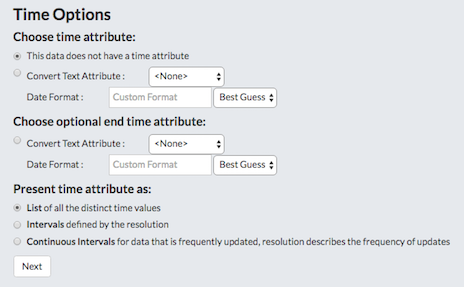
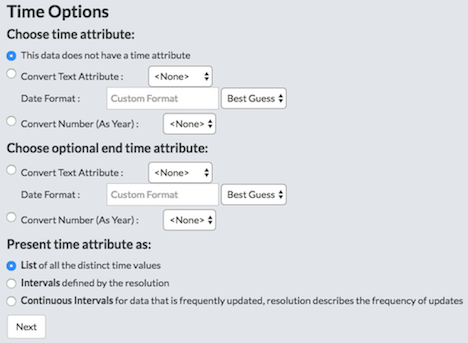
This is the first half of the working with layers section. I’ve reorganized sections and updated images throughout.
Continued changes to the working with layers section. Added new images. Removed old images. This is the version management and information page

Pending any changes due to proof reading, this will be ready to merge.

Working with Layers. Finished, reviewed several times, and ready for merging.

Changed region(s): [[0.0, 0.0, 0.9957, 0.9756], [0.0302, 0.5575, 0.181, 0.5854]]

diff --git a/source/layers/index.rst b/source/layers/index.rst
@@ -1,7 +1,9 @@
 Working with Layers
 ===================
 
-Exchange allows you to upload layers. The following are the supported Vector formats:
+Exchange allows you to upload layers for better visualization of your data, and to create a more detailed map.
+
+Exchange supports the following Vector formats:
 
 * ESRI Shapefile
 * CSV (Comma Separated Value)
@@ -16,230 +18,269 @@ The following are the supported Raster formats:
 * NITF (National Imagery Transmission Format)
 * CIB (Controlled Image Base)
 
-  * 1 Meter
-  * 5 Meter
-  * 10 Meter
+    * 1 Meter
+    * 5 Meter
+    * 10 Meter
+
 * CADRG (Compressed Arc Digitized Raster Graphic)
 
-  * GNC (Global Navigation Chart)
-  * JNC (Jet Navigation Chart)
-  * ONC (Operational Navigation Chart)
-  * TPC (Tactical Pilotage Chart)
-  * JOG (Joint Operations Graphic)
-  * TLM100 (Topographic Line Map 100K)
-  * TLM50 (Topographic Line Map 50K)
+    * GNC (Global Navigation Chart)
+    * JNC (Jet Navigation Chart)
+    * ONC (Operational Navigation Chart)
+    * TPC (Tactical Pilotage Chart)
+    * JOG (Joint Operations Graphic)
+    * TLM100 (Topographic Line Map 100K)
+    * TLM50 (Topographic Line Map 50K)
 
-All of the following filetypes can be uploaded by being placed in a **Zip Archive (.zip)**.
 
-Once the layers are uploaded, they will be available to other users in Exchange.
+  All file types listed can be uploaded as a Zip Archive (.zip).
+
+  Once the layers are uploaded, they will be available to other users in Exchange.
 
 Uploading a layer
 -----------------
 
-#. Select the :guilabel:`Layers` link on the top toolbar. This will bring up the **Explore Layers** page.
+#. Select the **Layers** link on the Exchange toolbar to open the Explore Layers page.
 
    .. figure:: img/explore-layers.png
 
-#. Select the :guilabel:`Upload Layers` button. This will bring up the upload form.
+#. Select the :guilabel:`Upload Layers` button.
 
-#. Either browse to the files to be uploaded or drag and drop them in the browser. Note that many files consist of multiple files to be complete. If you are uploading an ESRI Shapefile, then you need to include the .dbf, .prj, .shp, and .shx files.
+#. Click the :guilabel:`Choose Files` button. This will open a local file dialog. Navigate to your data folder and select the file(s) for the geospatial layer.
+
+**OR:** Drag and drop your file(s) into the **Drop files here** area.
+
+**Note:** Some file types require multiple files to create a complete layer. If you are uploading an ESRI Shapefile, be sure to include the .dbf, .prj, .shp, and .shx files.
 
    .. figure:: img/upload-form.png
 
-#. Click on the :guilabel:`Choose File` button. This will bring up a local file dialog. Navigate to your data folder and select the files composing the geospatial layer. Note that some data formats consist of multiple files.
+Setting permissions
+^^^^^^^^^^^^^^^^^^^
 
-#. Exchange has the ability to restrict who can view, edit, and manage layers. On the right side of the page, under **Who can view and download this data?**, select Any registered user. This will ensure that anonymous view access is disabled.
+The social design of Exchange allows users to coordinate on projects by sharing access to the same layers and maps; however, there may be instances when you want to limit who has what access to your layers. In Exchange, you can establish permissions for who can view, edit, and manage layers. Permissions can also be set for editing styles and metadata.
 
-#. In the same area, under **Who can edit data for this layer?**, type a user or users in the field that you want to restrict edit access to. This will ensure that only specific users are able to edit the data in the layer.
+4. On the right side of the page, under the **Who can view** and **Who can download** sections, add the name(s) of registered users or groups. This will ensure anonymous view access is disabled, and only those registered users specified are able to see your layers.
+
+#. In the same area, under **Who can edit data for this layer?**, add the users or groups who have permission to edit the layer.
 
    .. figure:: img/permissions-edit.png
 
-#. If no destination is selected, the files will be imported into the default spatial data store for Exchange. This will always be the destination for raster data.
+#. If you are loading raster data, click the :guilabel:`Upload files` button to import your files into the default spatial data store.
 
-   If you have vector data that you want to have time enabled, then check the box for :guilabel:`Configure Time`.
+**Note:** The following steps are optional. If you would like to add version control or temporal information to your *vector* data, please continue to the next step. You can add one or both options. You do not have to do either, and can click the :guilabel:`Upload files` button to complete your upload.
 
-   If you have vector data that you want to be versioned, then check the box for :guilabel:`Import to Geogig`. The form will update to provide a dropdown menu for existing GeoGit repositories. To use an existing repository as the destination, select it in the dropdown. In order to import the data into a new GeoGig repository:
+Version management
+^^^^^^^^^^^^^^^^^^
 
-   * Type the name of the repository.
+Even with established permissions, it’s still useful to know who has made specific edits to the data.  Exchange uses GeoGig repositories to maintain version control of your vector data. By uploading layers into either an existing repository, or a newly created one, you can see the history of changes and who made them. Please reference the **Editing and Version Management** section for further information.
 
-   .. figure:: img/repo-field.png
+7. Click the **Import to Geogig** checkbox.
 
-   * Select that name in the dropdown so it appears in the field.
+#. Either select an existing repository from the drop down list, or create a new one by typing the name of a new repository.
 
-#. Select the :guilabel:`Upload Files` button to upload the data and create a layer. A `Performing Final GeoServer Config Step` dialog will display showing the progress of the upload.
+  .. figure:: img/import-geogig.png
 
-   |
+If you are not configuring time attributes, click the :guilabel:`Upload files` button to complete your upload.
 
-   If you checked the :guilabel:`Configure Time` checkbox, then a new window will open for **Time Options**.
+Configuring time attributes
+^^^^^^^^^^^^^^^^^^^^^^^^^^^
 
-   .. figure:: img/time-options.png
+A feature can currently support one or two time attributes. If a single attribute is used, the feature is considered relevant at that single point in time. If two attributes are used, the second attribute represents the end of a valid period for the feature.
 
-   A feature can currently support one or two time attributes. If a single attribute is used, the feature is considered relevant at that single point in time. If two attributes are used, the second attribute represents the end of a valid period for the feature.
+  A time attribute can be:
 
-   |
+    * A date - 02/15/2016 11:23 AM
+    * Text that can be converted to a timestamp - Wednesday December 7, 2016 9:47 AM
+    * A number representing a year - 2016
 
-   A time attribute can be one of:
+For text attributes, you can specify a custom format, or use the “best guess” approach. When selecting the Convert Text Attribute option, you will select the attribute you want to use from the drop down list. Then, either select Best Guess or Custom from the list. Custom format will allow you to add the format that exists in the attribute table, and format it to something Exchange can handle.
 
-   * An existing date
-   * Text that can be converted to a timestamp
-   * A number representing a year
+  The most common formatting flags are:
 
-   The 'best guess' will handle date and optional time variants of **ISO-8601**. In terms of the formatting flags noted above, these are:
+    * y - year
+    * M - month
+    * d - day of month
+    * h - hour of the day (0 - 23)
+    * k - hour of the day (1-24)
+    * m - minute in an hour
+    * s - seconds in a minute
 
-   .. code-block:: default
+The "best guess" will handle date and optional time variants of ISO-8601. In terms of the formatting flags noted above, these are:
 
-      yyyy-MM-dd'T'HH:mm:ss.SSS'Z'
-      yyyy-MM-dd'T'HH:mm:sss'Z'
-      yyyy-MM-dd'T'HH:mm:ss'Z'
-      yyyy-MM-dd'T'HH:mm'Z'
-      yyyy-MM-dd'T'HH'Z'
-      yyyy-MM-dd
-      yyyy-MM
-      yyyy
+  yyyy-MM-dd'T'HH:mm:ss.SSS'Z'
 
-#. Your layer has been uploaded to Exchange. Now you will be able to access to the its info page (clicking on the :guilabel:`Layer Info` button), access to its metadata edit form (clicking on the :guilabel:`Edit Metadata` button) or to manage the styles for it (clicking on the :guilabel:`Manage Styles` button).
+  yyyy-MM-dd'T'HH:mm:sss'Z'
+
+  yyyy-MM-dd'T'HH:mm:ss'Z'
+
+  yyyy-MM-dd'T'HH:mm'Z'
+
+  yyyy-MM-dd'T'HH'Z'
+
+  yyyy-MM-dd
+
+  yyyy-MM
+
+  yyyy
+
+**Note:** Single quotes represent a literal character.
+
+To remove ambiguity, repeat a code to represent the maximum number of digits. For example, yyyy or MM instead of yy or M.
+
+9. Click the **Configure Time** checkbox, and then select the :guilabel:`Upload files` button.
+
+You will be prompted to specify more information in order to complete your upload. Select the **Continue** link.
+
+10. Complete the time attribute information, and click the :guilabel:`Next` button.
+
+  .. figure:: img/time-options.png
+
+11. Click the :guilabel:`Upload files` button to complete your upload. A Performing Final GeoServer Config Step dialog will display showing the progress of the upload.
+
+Once your layer has finished uploading, you will be able to access the layer’s information page.
 
 Layer information
 -----------------
 
 Each layer has an information page associated to it, which has several options for managing the layer’s data. Information is available for the following:
 
-* Info – Displays general information about the layer
-* Attributes
-* Ratings – Based on the ratings of other users
-* Comments – Any comments on the layer from users
-* Legend – Maps using this layer – What other maps within Exchange are using the layer
-* Permissions – How others can see or modify this layer
-* Styles – What styles are associated to the layer
-* About – Provides information on the owner, Point of Contact and Metadata Author
+  * Info – Displays general information about the layer
+  * Attributes - Lists the features in a layer, and the nonspatial information about the feature.
+  * Ratings – Based on the ratings of other users
+  * Comments – Any comments on the layer from users
+  * Legend – Maps using this layer – What other maps within Exchange are using the layer
+  * Permissions – How others can see or modify this layer
+  * Styles – What styles are associated to the layer
+  * About – Provides information on the owner, Point of Contact and Metadata Author
 
-To access Layer Information, click the **Layers** link on the Exchange toolbar. This will open the Explore Layers page. Here you will see the list of all of the available layers. Each layer has a thumbnail of the image, as well as the title, author, and any associated keywords.
+To access Layer Information, click the **Layers** link on the Exchange toolbar. This will open the Explore Layers page. Here you will see a list of all of the available layers. Each layer has a thumbnail image, as well as the title, author, and any associated keywords.
 
 #. Click the layer title you want to access.
 
-   .. figure:: img/layer-info-preview.png
+  .. figure:: img/open-layer.png
 
-#. The layer's information page will open.
+2. The information page for the layer will open.
 
-   .. figure:: img/layer-info-copy.png
+  .. figure:: img/layer-info.png
 
-Layer Detail Tabs
+Layer detail tabs
 ^^^^^^^^^^^^^^^^^
 
-There are five tabs that have information pertaining to the particular layer: Info, Attributes, Ratings, History and Comments.
+There are five tabs with information pertaining to the particular layer: Info, Attributes, Ratings, Comments, and GeoGig.
 
-#. The Info tab is the default, and displays basic information about the layer, such as the title, who created it, and when it was published.
+The Info tab is the default display, and contains basic information about the layer, such as the title, who created it, and when it was published.
 
-   .. figure:: img/details-info.png
+  .. figure:: img/info-tab.png
 
-#. The Attributes tab displays the layer attribute table. Layer attribute statistics will only display if the value is a numeric attribute, otherwise, no statistics will be calculated.
+The Attributes tab displays the layer attribute table. Layer attribute statistics will only display if the value is a numeric attribute, otherwise, no statistics will be calculated.
 
-   .. figure:: img/details-attributes.png
+  .. figure:: img/attributes-tab.png
 
-#. The Ratings tab displays all ratings that have been given to a layer by other users. Click on a star to rate the layer (one to five stars). Click the Cancel this rating icon to delete your rating.
+The Ratings tab displays all ratings given to a layer by other users. Click on a star to rate the layer (one to five stars). Click the **Cancel this rating** icon to delete your rating.
 
-   .. figure:: img/details-ratings.png
+  .. figure:: img/ratings-tab.png
 
-#. The Comments tab allows you to see what others are saying about this layer, as well as leave a comment.
+The Comments tab allows you to see what others are saying about this layer, as well as leave your own comment. Click the :guilabel:`Add Comment` button to leave a comment about the layer. When you’ve finished, click the :guilabel:`Submit Comment` button.
 
-   .. figure:: img/details-comments.png
+  .. figure:: img/comments-tab.png
 
-#. Click the :guilabel:`Add Comment` button to leave a comment about the layer.
+The GeoGig tab shows you the history of edits that have been made to the layer, when they were made, and by whom.
 
-   .. figure:: img/add-comment.png
+  .. figure:: img/geogig-tab.png
 
-Editing Metadata and Managing Layers
+Editing metadata and managing layers
 ------------------------------------
 
 Each layer’s information page allows you to view the information that makes up the layer. Exchange allows you to edit metadata pertaining to a layer that you have uploaded, as well as any layers you are given permissions to access by other users.
 
-Edit Metadata
+Edit metadata
 ^^^^^^^^^^^^^
 
-Metadata is information about the layer, such as the owner, title, purpose or restrictions on a layer. You can include as much information about the layer as you feel is important. The Abstract section is the description that will display in Exchange.
+Metadata is information about the layer, such as the owner, title, purpose or restrictions on a layer. You can include as much information about the layer as you feel is important; the more you can tell other users about your layer, the better. If you have questions about what to put in a field, hover your mouse over the area. An information balloon will explain what is required.
 
-#. Click the :guilabel:`Edit Layer` button, and select the edit button under Metadata.
+1. Click the :guilabel:`Edit Layer` button, and select the :guilabel:`Edit` button under Metadata. The Edit Metadata page will display.
 
-   .. figure:: img/metadata-edit.png
+  .. figure:: img/metadata-edit.png
 
-#. The **Edit Metadata** page will display.
+2. Edit the information fields to include anything pertinent to the layer. **Note:** Once you begin to edit the metadata, the Category field becomes mandatory, and you must select at least one.
 
-#. Edit the information fields to include anything pertinent to the layer.
+3. Click the :guilabel:`Update` button at either the top or bottom of the page to save your changes.
 
-#. Click the :guilabel:`Update` button at either the top or bottom of the page to save your changes.
-
-Edit Permissions
+Edit permissions
 ^^^^^^^^^^^^^^^^
-Layer permissions are established when the layer is first imported, but the administrator/owner of the layer can adjust those permissions as needed. Permissions allow you to manage who can view/download the data, who can make edits, and who can manage the data.
 
-#. Click the :guilabel:`Change Layer Permissions` button.
+Layer permissions are established when the layer is first imported, but the administrator/owner of the layer can adjust those permissions as needed. Permissions allow you to set who can view/download the data, who can make edits, and who can manage it.
 
-#. Set permissions for the resource to give the required access to the layer. Permissions can be granted to Anyone for viewing and downloading, if the checkbox is selected. Edit permissions can be given to registered individuals or groups.
+1. Click the :guilabel:`Change Layer Permissions` button.
 
-   .. figure:: img/resource-permissions.png
+2. Set permissions for the resource to give the required access to the layer. Permissions can be granted to Anyone for viewing and downloading, if the checkbox is selected. Edit permissions can be given to registered individuals or groups.
 
-#. Click Apply Changes to save.
+  .. figure:: img/resource-permissions.png
 
-Manage Styles
+3. Click the :guilabel:`Apply Changes` button to save.
+
+Manage styles
 ^^^^^^^^^^^^^
 
-Layers can have multiple styles associated to it. The Styles section tells you which style(s) is currently associated to the layer.
+Layers can have multiple associated styles. The Styles section tells you which style(s) is currently associated to the layer.
 
-.. figure:: img/manage-styles.png
+  .. figure:: img/styles.png
 
-#. Click the :guilabel:`Edit Layer` button, and then Manage under Styles.
+1. Click the :guilabel:`Edit Layer` button, and then **Manage** under Styles
 
-   .. figure:: img/manage-edit-styles.png
+  .. figure:: img/manage-edit-styles.png
 
-#. Click the name of a style in the left-hand list to select it and move it to the right-hand list.
+2. Click the name of a style in the left-hand list to select it, and move it to the right-hand list.
 
-#. Click a style in the right-hand list, and click the arrows between the lists to remove a style.
+3. Click a style in the right-hand list, and click the arrows between the lists to remove a style.
 
-#. Click the Update available Styles button to save changes.
+4. Click the :guilabel:`Update available Styles` button to save changes.
 
-Replace a Layer
+Replace a layer
 ^^^^^^^^^^^^^^^
 
-Replacing a layer allows you to upload a new layer, taking the place of the current later.
+Replacing a layer allows you to upload a new layer, taking the place of the current layer.
 
-#. Click the :guilabel:`Edit Layer` button, and select the Replace button.
+1. Click the :guilabel:`Edit Layer` button, and select the :guilabel:`Replace` button.
 
-   .. figure:: img/layer-remove-replace.png
+  .. figure:: img/layer-remove-replace.png
 
-#. Follow the instructions to upload a new layer.
+2. Follow the instructions to upload a new layer.
 
-Remove a Layer
+Remove a layer
 ^^^^^^^^^^^^^^
 
 Removing a layer will delete it completely from Boundless Exchange.
 
-#. Click the :guilabel:`Edit Layer` button, and select Remove.
+1. Click the :guilabel:`Edit Layer` button, and select Remove.
 
-#. Verify your selection by selecting the :guilabel:`Yes, I am sure` button.
+2. Verify your selection by clicking the :guilabel:`Yes, I am sure` button.
 
-   .. figure:: img/verify-remove-layer.png
+  .. figure:: img/verify-remove-layer.png
 
-Downloading Data from a Layer
+Downloading data from a layer
 -----------------------------
 
-Within Exchange, there are two ways to extract data and metadata, download a layer or download a layer’s metadata. This facilitates the flow of geospatial data in (import) and out (export) of Exchange.
+Within Exchange, there are two ways to extract data and metadata: download a layer or download a layer’s metadata. This facilitates the flow of geospatial data in (import) and out (export) of Exchange.
 
-Download Data
+Download data
 ^^^^^^^^^^^^^
 
-#. Click the :guilabel:`Download Layer` button.
+1. Click the :guilabel:`Download Layer` button.
 
-#. Select the format in which you’d like the data to be downloaded. Exchange currently offers 12 different formats for use in multiple geospatial platforms.
+2. Select the format in which you’d like the data to be downloaded. Exchange currently offers the following formats for use in multiple geospatial platforms:
 
-   .. figure:: img/download-layer-options.png
+  .. figure:: img/download-layer.png
 
 3. Save the file to your computer when the Save As dialog box opens.
 
-Metadata
-^^^^^^^^
+Download metadata
+^^^^^^^^^^^^^^^^^
 
-#. Click the :guilabel:`Download Metadata` button.
+1. Click the :guilabel:`Download Metadata` button.
 
-#. Select the format in which you’d like to download the metadata.
+2. Select the format in which you’d like to download the metadata.
 
-   .. figure:: img/download-meta-options.png
+  .. figure:: img/download-metadata.png
+
+3. Save the file to your computer when prompted.
